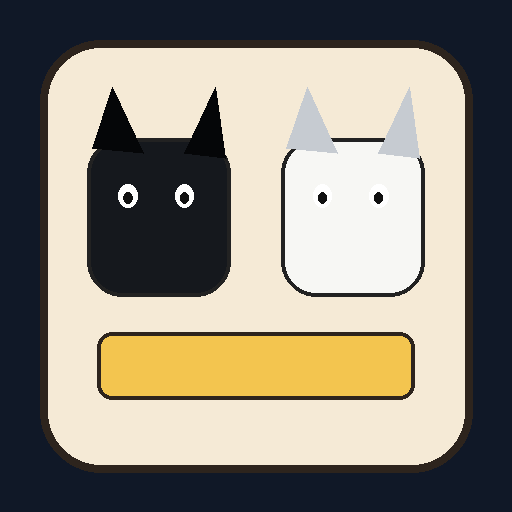
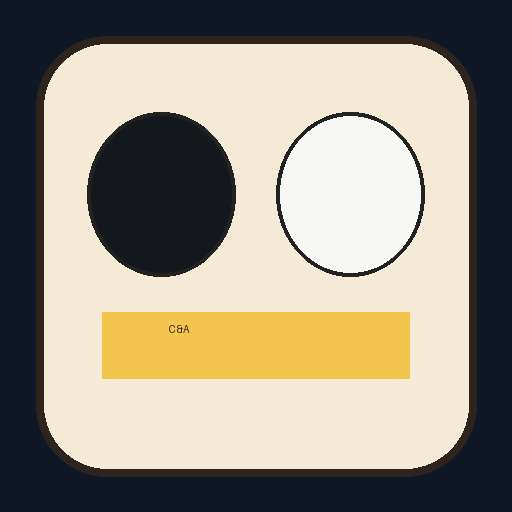
Add files via upload

diff --git a/index.html b/index.html
@@ -8,36 +8,109 @@
 </style></head><body><div id="rotate">Bitte Gerät ins Querformat drehen ↻</div><canvas id="game"></canvas>
 <div id="hud"><span id="lev">Level 1/4</span><span>⭐<b id="sc">0</b></span><span>❤<b id="li">3</b></span><span>🦴<b id="bo">0</b></span><span id="we">☀️</span><button id="prev">◀ Level</button><button id="one">⏮ Level 1</button></div>
 <div id="move" class="pad"><button class="ctrl" data-k="l">◀</button><button class="ctrl" data-k="r">▶</button></div><div id="act" class="pad"><button class="ctrl fire" data-k="f">🦴</button><button class="ctrl jump" data-k="j">⬆</button></div>
-<div id="menu" class="screen show"><div class="card"><h1>CHANEL & ARMANI</h1><h2>Das neue Würfel-Abenteuer</h2><p>Komplett neu aufgebaut: 4 Level, zwei Bonusspiele, dunkle Welten, Wetter, Rangliste und Endgegner.</p><div class="row"><button data-mode="solo">👤 SOLO</button><button data-mode="coop">👥 2 SPIELER</button><button id="rankOpen">🏆 RANG</button></div></div></div>
+<div id="menu" class="screen show"><div class="card"><h1>CHANEL & ARMANI</h1><h2>Das neue Würfel-Abenteuer</h2><p>Deluxe-Grafik: 4 Level, Tiere, Blumen, Sonne, Mond, Sterne, drei Bonusspiele, Feuerwerk und Schatten-Endgegner.</p><div class="row"><button data-mode="solo">👤 SOLO</button><button data-mode="coop">👥 2 SPIELER</button><button id="rankOpen">🏆 RANG</button></div></div></div>
 <div id="select" class="screen"><div class="card"><h2>Figur wählen</h2><h3>Spieler 1</h3><div class="row"><button class="char selected" data-p="1" data-c="chanel"><canvas class="preview" width="100" height="78" data-pr="chanel"></canvas>CHANEL</button><button class="char" data-p="1" data-c="armani"><canvas class="preview" width="100" height="78" data-pr="armani"></canvas>ARMANI</button></div><div id="p2" style="display:none"><h3>Spieler 2</h3><div class="row"><button class="char selected" data-p="2" data-c="armani"><canvas class="preview" width="100" height="78" data-pr="armani"></canvas>ARMANI</button><button class="char" data-p="2" data-c="chanel"><canvas class="preview" width="100" height="78" data-pr="chanel"></canvas>CHANEL</button></div></div><button id="start" class="sticky">SPIEL STARTEN</button></div></div>
 <div id="over" class="screen"><div class="card"><h1 style="color:red">LOSER</h1><button id="retry">NEUER VERSUCH IM LETZTEN LEVEL</button><button id="home">HAUPTMENÜ</button></div></div>
 <div id="win" class="screen"><div class="card"><h1>GESCHAFFT!</h1><p>Der Schattenfürst ist besiegt.</p><button id="winRank">PUNKTZAHL SPEICHERN</button><button id="again">NOCH EINMAL</button></div></div>
 <div id="rank" class="screen"><div class="card"><h1>PUNKT-RANG</h1><div class="row"><input id="name" maxlength="18" placeholder="Name"><button id="save">SPEICHERN</button></div><ol id="list"></ol><button id="back">ZURÜCK</button></div></div>
 <div id="pac" class="screen"><div class="card bonusCard"><h2>BONUS 1 – KNOCHEN-LABYRINTH</h2><div class="bonusLayout"><div><canvas id="pc" class="bonusCanvas" width="800" height="440"></canvas><div>Punkte <b id="ps">0</b>/<b id="pt">0</b></div></div><div><div class="dpad"><button class="up" id="pu">⬆</button><button class="left" id="pl">⬅</button><button class="down" id="pd">⬇</button><button class="right" id="pr">➡</button></div><button id="pSkip">WEITER</button></div></div></div></div>
+
+<div id="dash" class="screen"><div class="card bonusCard">
+<h2>BONUS 2 – TIER-DASH</h2>
+<p>Sammle 20 Früchte, springe über Hindernisse und erreiche das Ziel.</p>
+<div class="bonusLayout">
+<div><canvas id="dashCanvas" class="bonusCanvas" width="900" height="440"></canvas><div>Früchte <b id="dashScore">0</b>/20</div></div>
+<div><div class="dpad"><button class="left" id="dashLeft">⬅</button><button class="right" id="dashRight">➡</button><button class="up" id="dashJump">⬆</button></div><button id="dashSkip">WEITER</button></div>
+</div></div></div>
+
 <div id="shadow" class="screen"><div class="card bonusCard"><h2>BONUS 2 – SCHATTENJAGD</h2><div class="bonusLayout"><div><canvas id="sh" class="bonusCanvas" width="900" height="440"></canvas><div>Licht <b id="ss">0</b>/30</div></div><div><div class="dpad"><button class="up" id="su">⬆</button><button class="left" id="sl">⬅</button><button class="down" id="sd">⬇</button><button class="right" id="sr">➡</button></div><button id="sSkip">WEITER</button></div></div></div></div>
 <script>
-'use strict';const $=x=>document.getElementById(x),cv=$('game'),c=cv.getContext('2d');let W,H,D=1,last=0,time=0,state='menu',run=false,mode='solo',level=1,lastLevel=1,world=2800,weather='sun',score=0,bonesN=0;let choose={1:'chanel',2:'armani'},P=[],plats=[],items=[],en=[],shots=[],esh=[],parts=[],boss=null;const K={l:0,r:0,j:0,f:0},CH={chanel:{sp:300,j:620,d:1},armani:{sp:260,j:575,d:2}},screens=['menu','select','over','win','rank','pac','shadow'];
+'use strict';const $=x=>document.getElementById(x),cv=$('game'),c=cv.getContext('2d');let W,H,D=1,last=0,time=0,state='menu',run=false,mode='solo',level=1,lastLevel=1,world=2800,weather='sun',skyMode='day',score=0,bonesN=0,celebrate=0;let choose={1:'chanel',2:'armani'},P=[],plats=[],items=[],en=[],shots=[],esh=[],parts=[],boss=null;const K={l:0,r:0,j:0,f:0},CH={chanel:{sp:300,j:620,d:1},armani:{sp:260,j:575,d:2}},screens=['menu','select','over','win','rank','pac','dash','shadow'];
 function show(id){screens.forEach(s=>$(s).classList.toggle('show',s===id))}function resize(){D=Math.min(devicePixelRatio||1,2);W=innerWidth;H=innerHeight;cv.width=W*D;cv.height=H*D;cv.style.width=W+'px';cv.style.height=H+'px';c.setTransform(D,0,0,D,0,0)}addEventListener('resize',resize);resize();
 function rr(q,x,y,w,h,r){q.beginPath();q.moveTo(x+r,y);q.lineTo(x+w-r,y);q.quadraticCurveTo(x+w,y,x+w,y+r);q.lineTo(x+w,y+h-r);q.quadraticCurveTo(x+w,y+h,x+w-r,y+h);q.lineTo(x+r,y+h);q.quadraticCurveTo(x,y+h,x,y+h-r);q.lineTo(x,y+r);q.quadraticCurveTo(x,y,x+r,y);q.closePath()}
 function dog(q,x,y,k,s=1,f=1,pose='idle',fr=0){let b=k==='chanel',fur=b?'#15181d':'#f7f7f4',dk=b?'#050608':'#c6cbd1',ac=b?'#f2c94c':'#60a5fa',bob=pose==='run'?Math.sin(fr*1.57)*2:Math.sin(time*3)*1.2,tail=Math.sin(time*7+fr)*5;q.save();q.translate(x,y+bob);if(f<0){q.translate(66*s,0);q.scale(-1,1)}q.fillStyle='#0003';q.beginPath();q.ellipse(32*s,70*s,25*s,6*s,0,0,7);q.fill();q.strokeStyle=fur;q.lineWidth=8*s;q.beginPath();q.moveTo(12*s,38*s);q.quadraticCurveTo((-2-tail)*s,(27-tail)*s,7*s,16*s);q.stroke();q.fillStyle=fur;q.strokeStyle='#222';q.lineWidth=2*s;rr(q,12*s,28*s,42*s,31*s,10*s);q.fill();q.stroke();rr(q,18*s,3*s,38*s,34*s,11*s);q.fill();q.stroke();q.fillStyle=dk;rr(q,17*s,0,11*s,15*s,5*s);q.fill();rr(q,46*s,0,11*s,15*s,5*s);q.fill();rr(q,42*s,18*s,21*s,15*s,7*s);q.fill();q.fillStyle='#111';q.beginPath();q.arc(56*s,23*s,4*s,0,7);q.fill();q.fillStyle='#fff';q.beginPath();q.ellipse(29*s,15*s,4*s,6*s,0,0,7);q.ellipse(46*s,15*s,4*s,6*s,0,0,7);q.fill();q.fillStyle='#111';q.beginPath();q.arc(30*s,17*s,2*s,0,7);q.arc(47*s,17*s,2*s,0,7);q.fill();q.fillStyle=ac;q.fillRect(16*s,43*s,40*s,8*s);q.fillStyle=fur;rr(q,18*s,(54+(fr%2?5:-3))*s,11*s,18*s,4*s);q.fill();rr(q,42*s,(54+(fr%2?-3:5))*s,11*s,18*s,4*s);q.fill();q.restore()}
 document.querySelectorAll('[data-pr]').forEach(v=>{let q=v.getContext('2d');q.fillStyle='#9bdcff';q.fillRect(0,0,100,78);q.fillStyle='#61b54e';q.fillRect(0,58,100,20);dog(q,18,3,v.dataset.pr,.9)});
 function mkP(i,k,x){let a=CH[k];return{i,k,x,y:20,w:38,h:42,big:0,vx:0,vy:0,g:0,jumps:0,lock:0,face:1,lives:3,inv:0,cd:0,sp:a.sp,j:a.j,d:a.d,fr:0,ft:0,pose:'idle',done:0}}
 function hit(a,b){return a.x<b.x+b.w&&a.x+a.w>b.x&&a.y<b.y+b.h&&a.y+a.h>b.y}function ground(x,w){plats.push({x,y:H-100,w,h:120})}function plat(x,y,w){plats.push({x,y,w,h:28})}function enemy(x,y,t){en.push({x,y,w:48,h:44,t,hp:t==='shadow'?4:3,vx:t==='bat'?90:55,a:1,p:Math.random()*6})}
-function build(n){level=n;lastLevel=n;weather=['sun','rain','snow'][Math.floor(Math.random()*3)];plats=[];items=[];en=[];shots=[];esh=[];parts=[];boss=null;world=[0,2800,3100,3400,3800][n];let gaps=n===1?[[760,170],[1720,190]]:n===2?[[520,190],[1420,220],[2480,180]]:n===3?[[650,180],[1580,210],[2660,200]]:[[900,190],[1980,220],[3050,180]],cur=0;gaps.forEach(g=>{if(g[0]>cur)ground(cur,g[0]-cur);cur=g[0]+g[1]});if(cur<world)ground(cur,world-cur);let S=n===1?[[300,H-230,220],[650,H-350,240],[1080,H-260,230],[1460,H-400,250],[2080,H-300,260]]:n===2?[[260,H-260,200],[610,H-410,220],[1010,H-300,230],[1430,H-450,250],[1880,H-330,220],[2290,H-440,260]]:n===3?[[300,H-240,220],[710,H-380,240],[1120,H-290,220],[1540,H-440,250],[1990,H-320,230],[2440,H-410,260]]:[[350,H-250,230],[800,H-400,260],[1260,H-310,230],[1710,H-450,280],[2250,H-340,240],[2740,H-430,260],[3240,H-300,240]];S.forEach(v=>plat(...v));for(let i=0;i<10+n;i++)items.push({t:'bone',x:170+i*(world-340)/(9+n),y:H-(i%2?360:160),a:1});[360,980,1760,world-420].forEach((x,i)=>items.push({t:'heart',x,y:H-(i%2?250:150),a:1}));items.push({t:'power',x:world*.58,y:H-210,a:1});if(n===1){enemy(900,H-144,'cat');enemy(1320,H-144,'mouse');enemy(2200,H-250,'bat')}if(n===2){enemy(760,H-144,'cat');enemy(1200,H-144,'mouse');enemy(1800,H-250,'bat');enemy(2600,H-144,'cat')}if(n===3){enemy(800,H-144,'shadow');enemy(1350,H-260,'bat');enemy(2050,H-144,'shadow');enemy(2870,H-260,'bat')}if(n===4){enemy(900,H-144,'shadow');enemy(1480,H-260,'bat');enemy(2350,H-144,'shadow');boss={x:3420,y:H-190,w:80,h:90,hp:9,max:9,a:1,cd:0,phase:1}}P.forEach((p,i)=>{p.x=70+i*70;p.y=20;p.vx=p.vy=0;p.done=0;p.big=0;p.w=38;p.h=42});$('lev').textContent='Level '+n+'/4';$('we').textContent=weather==='sun'?'☀️':weather==='rain'?'🌧️':'❄️';hud()}
+function build(n){level=n;celebrate=0;lastLevel=n;weather=['sun','rain','snow'][Math.floor(Math.random()*3)];skyMode=Math.random()<.42?'night':'day';plats=[];items=[];en=[];shots=[];esh=[];parts=[];boss=null;world=[0,2800,3100,3400,3800][n];let gaps=n===1?[[760,170],[1720,190]]:n===2?[[520,190],[1420,220],[2480,180]]:n===3?[[650,180],[1580,210],[2660,200]]:[[900,190],[1980,220],[3050,180]],cur=0;gaps.forEach(g=>{if(g[0]>cur)ground(cur,g[0]-cur);cur=g[0]+g[1]});if(cur<world)ground(cur,world-cur);let S=n===1?[[300,H-230,220],[650,H-350,240],[1080,H-260,230],[1460,H-400,250],[2080,H-300,260]]:n===2?[[260,H-260,200],[610,H-410,220],[1010,H-300,230],[1430,H-450,250],[1880,H-330,220],[2290,H-440,260]]:n===3?[[300,H-240,220],[710,H-380,240],[1120,H-290,220],[1540,H-440,250],[1990,H-320,230],[2440,H-410,260]]:[[350,H-250,230],[800,H-400,260],[1260,H-310,230],[1710,H-450,280],[2250,H-340,240],[2740,H-430,260],[3240,H-300,240]];S.forEach(v=>plat(...v));for(let i=0;i<10+n;i++)items.push({t:'bone',x:170+i*(world-340)/(9+n),y:H-(i%2?360:160),a:1});[360,980,1760,world-420].forEach((x,i)=>items.push({t:'heart',x,y:H-(i%2?250:150),a:1}));items.push({t:'power',x:world*.58,y:H-210,a:1});if(n===1){enemy(900,H-144,'cat');enemy(1320,H-144,'mouse');enemy(2200,H-250,'bat')}if(n===2){enemy(760,H-144,'cat');enemy(1200,H-144,'mouse');enemy(1800,H-250,'bat');enemy(2600,H-144,'cat')}if(n===3){enemy(800,H-144,'shadow');enemy(1350,H-260,'bat');enemy(2050,H-144,'shadow');enemy(2870,H-260,'bat')}if(n===4){enemy(900,H-144,'shadow');enemy(1480,H-260,'bat');enemy(2350,H-144,'shadow');boss={x:3420,y:H-190,w:80,h:90,hp:9,max:9,a:1,cd:0,phase:1}}P.forEach((p,i)=>{p.x=70+i*70;p.y=20;p.vx=p.vy=0;p.done=0;p.big=0;p.w=38;p.h=42});$('lev').textContent='Level '+n+'/4';$('we').textContent=weather==='sun'?'☀️':weather==='rain'?'🌧️':'❄️';hud()}
 function start(){show('');$('hud').style.display='flex';$('move').style.display='flex';$('act').style.display='flex';score=0;bonesN=0;P=[mkP(1,choose[1],70)];if(mode==='coop')P.push(mkP(2,choose[2],140));build(1);state='game';run=1;last=performance.now()}
 function hud(){$('sc').textContent=score;$('bo').textContent=bonesN;$('li').textContent=Math.max(...P.map(p=>p.lives))}
 function burst(x,y,col,n=10){for(let i=0;i<n;i++){let a=Math.random()*7,s=50+Math.random()*150;parts.push({x,y,vx:Math.cos(a)*s,vy:Math.sin(a)*s-70,life:.8,col,z:2+Math.random()*4})}}
 function hurt(p){if(p.inv>0)return;if(p.big){p.big=0;p.w=38;p.h=42;p.inv=1;return}p.lives--;p.inv=1.2;if(p.lives<=0){run=0;state='over';show('over');$('hud').style.display=$('move').style.display=$('act').style.display='none'}else{p.x=Math.max(30,p.x-180);p.y=20;p.vx=p.vy=0}}
 function updP(p,dt){let L=p.i===1&&K.l,R=p.i===1&&K.r,J=p.i===1&&K.j,F=p.i===1&&K.f;p.vx=((R?1:0)-(L?1:0))*p.sp;if(p.vx)p.face=Math.sign(p.vx);if(J&&!p.lock&&p.jumps<2){p.vy=-(p.jumps?p.j*1.08:p.j);p.jumps++;p.lock=1}if(!J)p.lock=0;p.vy+=1500*dt;let oy=p.y;p.x+=p.vx*dt;p.y+=p.vy*dt;p.g=0;p.x=Math.max(0,Math.min(world-p.w,p.x));plats.forEach(r=>{if(p.x+p.w>r.x&&p.x<r.x+r.w&&oy+p.h<=r.y+8&&p.y+p.h>=r.y&&p.vy>=0){p.y=r.y-p.h;p.vy=0;p.g=1;p.jumps=0}});if(p.y>H+100){hurt(p);p.x=Math.max(30,p.x-250);p.y=20}p.inv=Math.max(0,p.inv-dt);p.cd-=dt;if(F&&p.cd<=0){shots.push({x:p.x+(p.face>0?p.w:0),y:p.y+p.h*.45,w:18,h:10,vx:p.face*680,d:p.d,dead:0});p.cd=.25}p.pose=!p.g?'jump':Math.abs(p.vx)>10?'run':'idle';p.ft+=dt;if(p.ft>.1){p.fr=(p.fr+1)%4;p.ft=0}items.forEach(i=>{if(i.a&&Math.hypot(p.x+p.w/2-i.x,p.y+p.h/2-i.y)<35){i.a=0;if(i.t==='bone'){score+=10;bonesN++}if(i.t==='heart'){p.lives++;score+=25}if(i.t==='power'){p.big=1;p.w=64;p.h=72;p.y-=30;score+=40}}});let goal=world-110;if(level<4&&p.x>goal)p.done=1;if(level===4&&boss&&!boss.a&&p.x>goal)p.done=1}
-function update(dt){time+=dt;P.forEach(p=>updP(p,dt));shots.forEach(s=>s.x+=s.vx*dt);esh.forEach(s=>{s.x+=s.vx*dt;s.y+=s.vy*dt});en.forEach(e=>{if(!e.a)return;if(e.t==='bat'){e.x+=e.vx*dt;e.y+=Math.sin(time*3+e.p)*35*dt}else e.x+=e.vx*dt;if(e.x<80||e.x>world-80)e.vx*=-1;shots.forEach(s=>{if(!s.dead&&hit(s,e)){e.hp-=s.d;s.dead=1;if(e.hp<=0){e.a=0;score+=50}}});P.forEach(p=>{if(hit(p,e))hurt(p)})});if(boss&&boss.a){boss.cd-=dt;if(boss.hp<=6)boss.phase=2;if(boss.hp<=3)boss.phase=3;if(boss.cd<=0){let p=P[0],dx=p.x-boss.x,dy=p.y-boss.y,m=Math.max(1,Math.hypot(dx,dy));for(let i=0;i<boss.phase;i++){let a=Math.atan2(dy,dx)+(i-(boss.phase-1)/2)*.18;esh.push({x:boss.x,y:boss.y+35,w:16,h:16,vx:Math.cos(a)*220,vy:Math.sin(a)*220,dead:0})}boss.cd=boss.phase===1?1.5:boss.phase===2?1.1:.8}shots.forEach(s=>{if(!s.dead&&hit(s,boss)){boss.hp-=s.d;s.dead=1;if(boss.hp<=0){boss.a=0;score+=500}}});P.forEach(p=>{if(hit(p,boss))hurt(p)})}esh.forEach(s=>P.forEach(p=>{if(!s.dead&&hit(s,p)){s.dead=1;hurt(p)}}));shots=shots.filter(s=>!s.dead&&s.x<world+100);esh=esh.filter(s=>!s.dead&&s.y<H+100);parts.forEach(p=>{p.x+=p.vx*dt;p.y+=p.vy*dt;p.vy+=380*dt;p.life-=dt});parts=parts.filter(p=>p.life>0);if(P.every(p=>p.done)){if(level===1)startPac();else if(level===3)startShadow();else if(level<4)build(level+1);else{run=0;state='win';show('win');$('hud').style.display=$('move').style.display=$('act').style.display='none'}}hud()}
-function bg(ox){let dark=level>=3,g=c.createLinearGradient(0,0,0,H);if(dark){g.addColorStop(0,'#10162c');g.addColorStop(.55,'#3b224f');g.addColorStop(1,'#1a2a1d')}else{g.addColorStop(0,'#4a9fe8');g.addColorStop(.55,'#dff4ff');g.addColorStop(1,'#4f8b3a')}c.fillStyle=g;c.fillRect(0,0,W,H);for(let i=-1;i<14;i++){let x=i*210-(ox*.22%210),b=H-105;c.fillStyle=dark?'#281f31':'#6f4725';c.fillRect(x,b-80,28,80);c.fillStyle=dark?'#30223e':'#3f9f42';c.beginPath();c.arc(x+14,b-92,38,0,7);c.fill()}if(weather==='rain'){c.strokeStyle='#cde8ffaa';for(let i=0;i<70;i++){let x=(i*73+time*400)%W,y=(i*41+time*620)%H;c.beginPath();c.moveTo(x,y);c.lineTo(x-8,y+20);c.stroke()}}if(weather==='snow'){c.fillStyle='#fff';for(let i=0;i<50;i++){let x=(i*97+Math.sin(time+i)*25)%W,y=(i*57+time*70)%H;c.beginPath();c.arc(x,y,2+i%3,0,7);c.fill()}}}
-function draw(){c.clearRect(0,0,W,H);let ox=Math.max(0,Math.min(world-W,(P[0]||{x:0}).x-W*.38));bg(ox);plats.forEach(r=>{c.fillStyle=level>=3?'#403244':'#6b4424';c.fillRect(r.x-ox,r.y,r.w,r.h);c.fillStyle=weather==='snow'?'#eef6ff':level>=3?'#4f375b':'#54b83f';c.fillRect(r.x-ox,r.y,r.w,12)});items.forEach(i=>{if(!i.a)return;let x=i.x-ox,y=i.y;if(i.t==='bone'){c.fillStyle='#fff2c8';c.fillRect(x-12,y-4,24,8)}if(i.t==='heart'){c.fillStyle='#e11d48';c.beginPath();c.arc(x-6,y,9,0,7);c.arc(x+6,y,9,0,7);c.lineTo(x,y+18);c.fill()}if(i.t==='power'){let g=c.createRadialGradient(x,y,2,x,y,22);g.addColorStop(0,'#60a5fa');g.addColorStop(.5,'#111827');g.addColorStop(1,'#2563eb');c.fillStyle=g;c.beginPath();c.arc(x,y,22,0,7);c.fill()}});en.forEach(e=>{if(!e.a)return;let x=e.x-ox,col=e.t==='cat'?'#d97706':e.t==='mouse'?'#9ca3af':e.t==='bat'?'#5b21b6':'#050507';c.fillStyle=col;rr(c,x,e.y,e.w,e.h,10);c.fill();c.fillStyle=e.t==='shadow'?'#ef4444':'#fff';c.beginPath();c.arc(x+15,e.y+15,5,0,7);c.arc(x+34,e.y+15,5,0,7);c.fill()});if(boss&&boss.a){let x=boss.x-ox,y=boss.y;c.fillStyle='#1b1027';c.strokeStyle='#8b5cf6';c.lineWidth=3;rr(c,x,y,boss.w,boss.h,16);c.fill();c.stroke();c.fillStyle='#ef4444';c.beginPath();c.arc(x+25,y+35,7,0,7);c.arc(x+55,y+35,7,0,7);c.fill();c.fillStyle='#22c55e';c.fillRect(x,y-12,boss.w*(boss.hp/boss.max),8)}shots.forEach(s=>{c.fillStyle='#fde047';c.fillRect(s.x-ox,s.y,s.w,s.h)});esh.forEach(s=>{c.fillStyle='#c084fc';c.beginPath();c.arc(s.x-ox,s.y,8,0,7);c.fill()});P.forEach(p=>{c.globalAlpha=p.inv>0&&Math.floor(p.inv*12)%2===0?.45:1;dog(c,p.x-ox,p.y,p.k,p.big?1:.58,p.face,p.pose,p.fr);c.globalAlpha=1});let gx=world-80-ox;c.fillStyle=level===4&&boss&&boss.a?'#777':'#22c55e';c.fillRect(gx,H-220,8,120)}
+function update(dt){time+=dt;P.forEach(p=>updP(p,dt));shots.forEach(s=>s.x+=s.vx*dt);esh.forEach(s=>{s.x+=s.vx*dt;s.y+=s.vy*dt});en.forEach(e=>{if(!e.a)return;if(e.t==='bat'){e.x+=e.vx*dt;e.y+=Math.sin(time*3+e.p)*35*dt}else e.x+=e.vx*dt;if(e.x<80||e.x>world-80)e.vx*=-1;shots.forEach(s=>{if(!s.dead&&hit(s,e)){e.hp-=s.d;s.dead=1;if(e.hp<=0){e.a=0;score+=50}}});P.forEach(p=>{if(hit(p,e))hurt(p)})});if(boss&&boss.a){boss.cd-=dt;if(boss.hp<=6)boss.phase=2;if(boss.hp<=3)boss.phase=3;if(boss.cd<=0){let p=P[0],dx=p.x-boss.x,dy=p.y-boss.y,m=Math.max(1,Math.hypot(dx,dy));for(let i=0;i<boss.phase;i++){let a=Math.atan2(dy,dx)+(i-(boss.phase-1)/2)*.18;esh.push({x:boss.x,y:boss.y+35,w:16,h:16,vx:Math.cos(a)*220,vy:Math.sin(a)*220,dead:0})}boss.cd=boss.phase===1?1.5:boss.phase===2?1.1:.8}shots.forEach(s=>{if(!s.dead&&hit(s,boss)){boss.hp-=s.d;s.dead=1;if(boss.hp<=0){boss.a=0;score+=500}}});P.forEach(p=>{if(hit(p,boss))hurt(p)})}esh.forEach(s=>P.forEach(p=>{if(!s.dead&&hit(s,p)){s.dead=1;hurt(p)}}));shots=shots.filter(s=>!s.dead&&s.x<world+100);esh=esh.filter(s=>!s.dead&&s.y<H+100);parts.forEach(p=>{p.x+=p.vx*dt;p.y+=p.vy*dt;p.vy+=380*dt;p.life-=dt});parts=parts.filter(p=>p.life>0);if(P.every(p=>p.done)){if(level===1)startPac();else if(level===2)startDash();else if(level===3)startShadow();else if(level<4)build(level+1);else if(celebrate<=0){celebrate=3.2;toast('SIEG! FEUERWERK!')}}fireworksTick(dt);hud()}
+
+function flower(x,y,col='#ff5ea8',s=1){
+  c.strokeStyle='#2f7d32';c.lineWidth=2*s;c.beginPath();c.moveTo(x,y);c.lineTo(x,y-16*s);c.stroke();
+  c.fillStyle=col;
+  for(let i=0;i<5;i++){let a=i*Math.PI*2/5;c.beginPath();c.arc(x+Math.cos(a)*4*s,y-16*s+Math.sin(a)*4*s,3*s,0,7);c.fill()}
+  c.fillStyle='#ffd54f';c.beginPath();c.arc(x,y-16*s,2.4*s,0,7);c.fill()
+}
+function decoAnimal(x,y,type,flip=1){
+  c.save();c.translate(x,y);if(flip<0)c.scale(-1,1);
+  if(type==='rabbit'){
+    c.fillStyle='#d7d5d2';c.beginPath();c.ellipse(0,0,13,9,0,0,7);c.fill();
+    c.beginPath();c.ellipse(10,-7,7,7,0,0,7);c.fill();
+    c.fillRect(8,-24,4,15);c.fillRect(14,-24,4,15);
+    c.fillStyle='#111';c.beginPath();c.arc(13,-8,1.5,0,7);c.fill()
+  }else if(type==='bird'){
+    c.strokeStyle=skyMode==='night'?'#b9c5e8':'#30445e';c.lineWidth=2;c.beginPath();c.arc(-6,0,8,3.4,6);c.arc(6,0,8,3.4,6);c.stroke()
+  }else{
+    c.fillStyle='#a66b3f';c.beginPath();c.ellipse(0,0,18,10,0,0,7);c.fill();
+    c.beginPath();c.arc(17,-7,8,0,7);c.fill();
+    c.strokeStyle='#a66b3f';c.lineWidth=3;c.beginPath();c.moveTo(-10,6);c.lineTo(-13,17);c.moveTo(8,6);c.lineTo(10,17);c.stroke()
+  }
+  c.restore()
+}
+function drawCelestial(){
+  if(skyMode==='night'){
+    c.fillStyle='#f5f3ce';c.beginPath();c.arc(W*.78,80,36,0,7);c.fill();
+    c.fillStyle='#18213d';c.beginPath();c.arc(W*.795,70,34,0,7);c.fill();
+    c.fillStyle='#fff';
+    for(let i=0;i<55;i++){let x=(i*97)%W,y=18+(i*53)%(H*.5);let tw=1+Math.sin(time*3+i)*.6;c.globalAlpha=.5+tw*.3;c.beginPath();c.arc(x,y,1+(i%3)*.45,0,7);c.fill()}c.globalAlpha=1
+  }else{
+    let g=c.createRadialGradient(W*.78,80,4,W*.78,80,90);g.addColorStop(0,'#fffbd7');g.addColorStop(.35,'rgba(255,223,130,.65)');g.addColorStop(1,'rgba(255,223,130,0)');
+    c.fillStyle=g;c.beginPath();c.arc(W*.78,80,90,0,7);c.fill()
+  }
+}
+function fireworksTick(dt){
+  if(celebrate<=0)return;
+  celebrate-=dt;
+  if(Math.random()<dt*8)burst((P[0]?.x||0)+Math.random()*W*.7,80+Math.random()*H*.42,['#ff3344','#ffd633','#3bbcff','#9b5cff','#45e06f'][Math.floor(Math.random()*5)],26);
+  if(celebrate<=0){run=0;state='win';show('win');$('hud').style.display=$('move').style.display=$('act').style.display='none'}
+}
+function bg(ox){
+  let dark=level>=3||skyMode==='night',g=c.createLinearGradient(0,0,0,H);
+  if(skyMode==='night'){g.addColorStop(0,'#081126');g.addColorStop(.55,'#283458');g.addColorStop(1,'#1a2a1d')}
+  else if(level>=3){g.addColorStop(0,'#10162c');g.addColorStop(.55,'#3b224f');g.addColorStop(1,'#1a2a1d')}
+  else{g.addColorStop(0,'#4a9fe8');g.addColorStop(.55,'#dff4ff');g.addColorStop(1,'#4f8b3a')}
+  c.fillStyle=g;c.fillRect(0,0,W,H);drawCelestial();
+  c.fillStyle=dark?'rgba(65,50,90,.28)':'rgba(70,110,120,.22)';
+  for(let i=-1;i<9;i++){let x=i*320-(ox*.08%320);c.beginPath();c.moveTo(x,H*.7);c.lineTo(x+115,H*.42-(i%3)*20);c.lineTo(x+230,H*.7);c.closePath();c.fill()}
+  for(let i=-1;i<16;i++){let x=i*190-(ox*.22%190),b=H-105;c.fillStyle=dark?'#281f31':'#6f4725';c.fillRect(x,b-82,30,82);c.fillStyle=dark?'#30223e':'#3f9f42';c.beginPath();c.arc(x+15,b-96,40,0,7);c.fill();c.beginPath();c.arc(x-8,b-72,29,0,7);c.fill();c.beginPath();c.arc(x+40,b-72,29,0,7);c.fill()}
+  for(let i=-1;i<55;i++){let x=i*52-(ox*.58%52);flower(x,H-102-(i%2)*2,['#ff5ea8','#ffd84d','#7c5cff','#ff784d','#fff'][Math.abs(i)%5],.8+(Math.abs(i)%3)*.12)}
+  for(let i=0;i<8;i++)decoAnimal(((i*310-ox*.33)% (W+240))-80,H-122-(i%2)*12,i%3===0?'rabbit':i%3===1?'bird':'deer',i%2?1:-1);
+  if(weather==='rain'){c.strokeStyle='#cde8ffaa';for(let i=0;i<65;i++){let x=(i*73+time*400)%W,y=(i*41+time*620)%H;c.beginPath();c.moveTo(x,y);c.lineTo(x-8,y+20);c.stroke()}}
+  if(weather==='snow'){c.fillStyle='#fff';for(let i=0;i<48;i++){let x=(i*97+Math.sin(time+i)*25)%W,y=(i*57+time*70)%H;c.beginPath();c.arc(x,y,2+i%3,0,7);c.fill()}}
+}
+function draw(){c.clearRect(0,0,W,H);let ox=Math.max(0,Math.min(world-W,(P[0]||{x:0}).x-W*.38));bg(ox);plats.forEach(r=>{c.fillStyle=level>=3?'#403244':'#6b4424';c.fillRect(r.x-ox,r.y,r.w,r.h);c.fillStyle=weather==='snow'?'#eef6ff':level>=3?'#4f375b':'#54b83f';c.fillRect(r.x-ox,r.y,r.w,12)});items.forEach(i=>{if(!i.a)return;let x=i.x-ox,y=i.y;if(i.t==='bone'){c.fillStyle='#fff2c8';c.fillRect(x-12,y-4,24,8)}if(i.t==='heart'){c.fillStyle='#e11d48';c.beginPath();c.arc(x-6,y,9,0,7);c.arc(x+6,y,9,0,7);c.lineTo(x,y+18);c.fill()}if(i.t==='power'){let g=c.createRadialGradient(x,y,2,x,y,22);g.addColorStop(0,'#60a5fa');g.addColorStop(.5,'#111827');g.addColorStop(1,'#2563eb');c.fillStyle=g;c.beginPath();c.arc(x,y,22,0,7);c.fill()}});en.forEach(e=>{if(!e.a)return;let x=e.x-ox,col=e.t==='cat'?'#d97706':e.t==='mouse'?'#9ca3af':e.t==='bat'?'#5b21b6':'#050507';c.fillStyle=col;rr(c,x,e.y,e.w,e.h,10);c.fill();c.fillStyle=e.t==='shadow'?'#ef4444':'#fff';c.beginPath();c.arc(x+15,e.y+15,5,0,7);c.arc(x+34,e.y+15,5,0,7);c.fill()});if(boss&&boss.a){let x=boss.x-ox,y=boss.y,gl=c.createRadialGradient(x+40,y+42,5,x+40,y+42,75);gl.addColorStop(0,'rgba(168,85,247,.8)');gl.addColorStop(1,'rgba(168,85,247,0)');c.fillStyle=gl;c.beginPath();c.arc(x+40,y+42,75,0,7);c.fill();c.fillStyle='#1b1027';c.strokeStyle='#8b5cf6';c.lineWidth=3;rr(c,x,y,boss.w,boss.h,16);c.fill();c.stroke();c.beginPath();c.moveTo(x+8,y+18);c.lineTo(x-24,y-2);c.lineTo(x-5,y+40);c.fill();c.beginPath();c.moveTo(x+72,y+18);c.lineTo(x+104,y-2);c.lineTo(x+85,y+40);c.fill();c.fillStyle='#ef4444';c.beginPath();c.arc(x+25,y+35,7,0,7);c.arc(x+55,y+35,7,0,7);c.fill();c.strokeStyle='#d8b4fe';c.beginPath();c.moveTo(x+17,y+58);c.quadraticCurveTo(x+40,y+74,x+63,y+58);c.stroke();c.fillStyle='#111827';c.fillRect(x,y-14,boss.w,9);c.fillStyle='#22c55e';c.fillRect(x,y-14,boss.w*(boss.hp/boss.max),9)}shots.forEach(s=>{c.fillStyle='#fde047';c.fillRect(s.x-ox,s.y,s.w,s.h)});esh.forEach(s=>{c.fillStyle='#c084fc';c.beginPath();c.arc(s.x-ox,s.y,8,0,7);c.fill()});P.forEach(p=>{c.globalAlpha=p.inv>0&&Math.floor(p.inv*12)%2===0?.45:1;dog(c,p.x-ox,p.y,p.k,p.big?1:.58,p.face,p.pose,p.fr);c.globalAlpha=1});let gx=world-80-ox;c.fillStyle=level===4&&boss&&boss.a?'#777':'#22c55e';c.fillRect(gx,H-220,8,120)}
 function loop(t){let dt=Math.min((t-last)/1000,.025);last=t;if(run&&state==='game')update(dt);if(state==='game')draw();requestAnimationFrame(loop)}requestAnimationFrame(loop);
 document.querySelectorAll('[data-mode]').forEach(b=>b.onclick=()=>{mode=b.dataset.mode;$('p2').style.display=mode==='coop'?'block':'none';show('select')});document.querySelectorAll('.char').forEach(b=>b.onclick=()=>{let p=b.dataset.p;choose[p]=b.dataset.c;document.querySelectorAll('.char[data-p="'+p+'"]').forEach(x=>x.classList.remove('selected'));b.classList.add('selected')});$('start').onclick=start;$('retry').onclick=()=>{show('');$('hud').style.display='flex';$('move').style.display='flex';$('act').style.display='flex';P=[mkP(1,choose[1],70)];if(mode==='coop')P.push(mkP(2,choose[2],140));build(lastLevel);state='game';run=1;last=performance.now()};$('home').onclick=()=>{run=0;state='menu';show('menu')};$('again').onclick=()=>show('menu');$('prev').onclick=()=>{if(state==='game'&&level>1)build(level-1)};$('one').onclick=()=>{if(state==='game'&&level>1)build(1)};
 document.querySelectorAll('[data-k]').forEach(b=>{let k=b.dataset.k,d=e=>{e.preventDefault();K[k]=1},u=e=>{e.preventDefault();K[k]=0};b.addEventListener('pointerdown',d);b.addEventListener('pointerup',u);b.addEventListener('pointercancel',u);b.addEventListener('pointerleave',u)});
 function ranks(){try{return JSON.parse(localStorage.getItem('caRanks')||'[]')}catch(e){return[]}}function render(){let l=$('list');l.innerHTML='';let r=ranks();if(!r.length)l.innerHTML='<li>Noch keine Einträge</li>';r.slice(0,10).forEach((x,i)=>{let q=document.createElement('li');q.textContent=(i+1)+'. '+x.name+' – '+x.score;l.appendChild(q)})}function save(){let n=($('name').value||'Spieler').trim(),r=ranks();r.push({name:n,score});r.sort((a,b)=>b.score-a.score);try{localStorage.setItem('caRanks',JSON.stringify(r.slice(0,10)))}catch(e){}render()}$('rankOpen').onclick=()=>{render();show('rank')};$('back').onclick=()=>show('menu');$('save').onclick=save;$('winRank').onclick=()=>{render();show('rank')};
 /* PAC */
 const pc=$('pc'),px=pc.getContext('2d'),T=40;let map=[],pp={x:1,y:1,dx:0,dy:0},gh=[],got=0,total=0,ptimer=null;function startPac(){run=0;state='pac';document.body.classList.add('bonus');$('hud').style.display=$('move').style.display=$('act').style.display='none';show('pac');let raw=["####################","#..................#","#.###.####.###.###.#","#.#...#....#...#...#","#.#.###.##.#.###.#.#","#...#......#.....#.#","###.#.#######.###..#","#...#.....#........#","#.#####.#.#.######.#","#.......#..........#","####################"];map=raw.map(r=>r.split(''));pp={x:1,y:1,dx:0,dy:0};gh=[{x:18,y:9},{x:10,y:5}];got=0;total=0;map.forEach(r=>r.forEach(v=>{if(v==='.')total++}));$('ps').textContent=0;$('pt').textContent=total;if(ptimer)clearInterval(ptimer);ptimer=setInterval(pstep,170);pdraw()}function can(x,y){return map[y]&&map[y][x]&&map[y][x]!=='#'}function pdir(x,y){pp.dx=x;pp.dy=y;pstep()}function pstep(){let x=pp.x+pp.dx,y=pp.y+pp.dy;if(can(x,y)){pp.x=x;pp.y=y}if(map[pp.y][pp.x]==='.'){map[pp.y][pp.x]=' ';got++;score+=2;$('ps').textContent=got}gh.forEach(g=>{let o=[[1,0],[-1,0],[0,1],[0,-1]].filter(d=>can(g.x+d[0],g.y+d[1]));let d=o[Math.floor(Math.random()*o.length)];if(d){g.x+=d[0];g.y+=d[1]}if(g.x===pp.x&&g.y===pp.y){pp.x=1;pp.y=1}});pdraw();if(got>=total){clearInterval(ptimer);score+=100;leavePac()}}function pdraw(){px.fillStyle='#030711';px.fillRect(0,0,800,440);for(let y=0;y<map.length;y++)for(let x=0;x<map[y].length;x++){let v=map[y][x];if(v==='#'){px.fillStyle='#1d4ed8';px.fillRect(x*T+2,y*T+2,T-4,T-4)}else if(v==='.'){px.fillStyle='#fde68a';px.beginPath();px.arc(x*T+20,y*T+20,4,0,7);px.fill()}}px.fillStyle='#facc15';px.beginPath();px.arc(pp.x*T+20,pp.y*T+20,15,0,7);px.fill();gh.forEach(g=>{px.fillStyle='#ef4444';px.beginPath();px.arc(g.x*T+20,g.y*T+20,15,0,7);px.fill()})}function leavePac(){document.body.classList.remove('bonus');show('');$('hud').style.display='flex';$('move').style.display='flex';$('act').style.display='flex';build(2);state='game';run=1;last=performance.now()}$('pu').onclick=()=>pdir(0,-1);$('pd').onclick=()=>pdir(0,1);$('pl').onclick=()=>pdir(-1,0);$('pr').onclick=()=>pdir(1,0);$('pSkip').onclick=()=>{if(ptimer)clearInterval(ptimer);leavePac()};
+
+/* TIER-DASH BONUS */
+const dash=$('dashCanvas'),dc=dash.getContext('2d');let runner={x:100,y:330,vx:0,vy:0,g:1},dashWorld=2600,dashCam=0,fruit=[],rocks=[],dashGot=0,dashTimer=null,dashKeys={l:0,r:0,j:0};
+function startDash(){run=0;state='dash';document.body.classList.add('bonus');$('hud').style.display=$('move').style.display=$('act').style.display='none';show('dash');runner={x:100,y:330,vx:0,vy:0,g:1};dashCam=0;dashGot=0;$('dashScore').textContent=0;fruit=[];rocks=[];for(let i=0;i<20;i++)fruit.push({x:180+i*115,y:250-(i%3)*55,a:1});for(let i=0;i<12;i++)rocks.push({x:360+i*185,y:350,w:34+(i%3)*8,h:30+(i%2)*15});if(dashTimer)clearInterval(dashTimer);dashTimer=setInterval(dashStep,16)}
+function dashStep(){runner.vx=((dashKeys.r?1:0)-(dashKeys.l?1:0))*320;if(dashKeys.j&&runner.g){runner.vy=-590;runner.g=0;dashKeys.j=0}runner.vy+=1450*.016;runner.x+=runner.vx*.016;runner.y+=runner.vy*.016;if(runner.y>=330){runner.y=330;runner.vy=0;runner.g=1}runner.x=Math.max(30,Math.min(dashWorld-50,runner.x));rocks.forEach(r=>{if(runner.x+38>r.x&&runner.x<r.x+r.w&&runner.y+42>r.y&&runner.y<r.y+r.h){runner.x=Math.max(40,r.x-45)}});fruit.forEach(f=>{if(f.a&&Math.hypot(runner.x-f.x,runner.y-f.y)<38){f.a=0;dashGot++;score+=5;$('dashScore').textContent=dashGot}});dashCam=Math.max(0,Math.min(dashWorld-900,runner.x-230));drawDash();if(dashGot>=20||runner.x>dashWorld-90){clearInterval(dashTimer);score+=120;leaveDash()}}
+function drawDash(){let g=dc.createLinearGradient(0,0,0,440);g.addColorStop(0,'#7bc7ff');g.addColorStop(.65,'#e9f7ff');g.addColorStop(.66,'#6cbf4c');g.addColorStop(1,'#3f7a32');dc.fillStyle=g;dc.fillRect(0,0,900,440);dc.fillStyle='#7b5532';dc.fillRect(0,372,900,68);dc.fillStyle='#58ad43';dc.fillRect(0,360,900,16);for(let i=0;i<10;i++){let x=i*180-(dashCam*.25%180);dc.fillStyle='#6f4725';dc.fillRect(x,250,24,110);dc.fillStyle='#3f9f42';dc.beginPath();dc.arc(x+12,240,42,0,7);dc.fill()}fruit.forEach(f=>{if(!f.a)return;let x=f.x-dashCam;dc.fillStyle='#ff4d4d';dc.beginPath();dc.arc(x,f.y,10,0,7);dc.fill();dc.fillStyle='#4caf50';dc.fillRect(x-2,f.y-16,4,7)});rocks.forEach(r=>{dc.fillStyle='#5b6470';rr(dc,r.x-dashCam,r.y,r.w,r.h,7);dc.fill()});dog(dc,runner.x-dashCam,runner.y-8,choose[1],.62,1,Math.abs(runner.vx)>0?'run':'idle',Math.floor(time*10)%4);dc.fillStyle='#22c55e';dc.fillRect(dashWorld-70-dashCam,245,8,115)}
+function dashBind(btn,k){btn.onpointerdown=e=>{e.preventDefault();dashKeys[k]=1};btn.onpointerup=btn.onpointercancel=e=>{e.preventDefault();if(k!=='j')dashKeys[k]=0}}
+dashBind($('dashLeft'),'l');dashBind($('dashRight'),'r');dashBind($('dashJump'),'j');
+function leaveDash(){document.body.classList.remove('bonus');show('');$('hud').style.display='flex';$('move').style.display='flex';$('act').style.display='flex';build(3);state='game';run=1;last=performance.now()}
+$('dashSkip').onclick=()=>{if(dashTimer)clearInterval(dashTimer);leaveDash()};
+
 /* SHADOW */
 const sh=$('sh'),sx=sh.getContext('2d');let sp={x:90,y:220,vx:0,vy:0},lights=[],evil=[],sg=0,st=null;function startShadow(){run=0;state='shadow';document.body.classList.add('bonus');$('hud').style.display=$('move').style.display=$('act').style.display='none';show('shadow');sp={x:90,y:220,vx:0,vy:0};sg=0;$('ss').textContent=0;lights=[];for(let i=0;i<30;i++)lights.push({x:60+Math.random()*780,y:50+Math.random()*340,a:1});evil=[{x:700,y:90,vx:-80,vy:60,r:22},{x:780,y:360,vx:-95,vy:-55,r:25},{x:480,y:220,vx:70,vy:-80,r:20}];if(st)clearInterval(st);st=setInterval(sstep,35)}function sstep(){sp.x=Math.max(16,Math.min(884,sp.x+sp.vx*.035));sp.y=Math.max(16,Math.min(424,sp.y+sp.vy*.035));evil.forEach(e=>{e.x+=e.vx*.035;e.y+=e.vy*.035;if(e.x<25||e.x>875)e.vx*=-1;if(e.y<25||e.y>415)e.vy*=-1;if(Math.hypot(sp.x-e.x,sp.y-e.y)<e.r+13){sp.x=90;sp.y=220}});lights.forEach(l=>{if(l.a&&Math.hypot(sp.x-l.x,sp.y-l.y)<20){l.a=0;sg++;score+=3;$('ss').textContent=sg}});sdraw();if(sg>=30){clearInterval(st);score+=150;leaveShadow()}}function sdraw(){let g=sx.createLinearGradient(0,0,0,440);g.addColorStop(0,'#0c1630');g.addColorStop(1,'#260b34');sx.fillStyle=g;sx.fillRect(0,0,900,440);lights.forEach(l=>{if(!l.a)return;sx.fillStyle='#fff7a8';sx.beginPath();sx.arc(l.x,l.y,7,0,7);sx.fill()});evil.forEach(e=>{sx.fillStyle='#020203';sx.beginPath();sx.arc(e.x,e.y,e.r,0,7);sx.fill();sx.fillStyle='#ef4444';sx.beginPath();sx.arc(e.x-7,e.y-4,4,0,7);sx.arc(e.x+7,e.y-4,4,0,7);sx.fill()});sx.fillStyle='#60a5fa';sx.beginPath();sx.arc(sp.x,sp.y,12,0,7);sx.fill()}function sdir(x,y){sp.vx=x*210;sp.vy=y*210}function leaveShadow(){document.body.classList.remove('bonus');show('');$('hud').style.display='flex';$('move').style.display='flex';$('act').style.display='flex';build(4);state='game';run=1;last=performance.now()}$('su').onclick=()=>sdir(0,-1);$('sd').onclick=()=>sdir(0,1);$('sl').onclick=()=>sdir(-1,0);$('sr').onclick=()=>sdir(1,0);$('sSkip').onclick=()=>{if(st)clearInterval(st);leaveShadow()};
 

diff --git a/sw.js b/sw.js
@@ -1,16 +1,5 @@
-const CACHE_NAME='chanel-armani-pwa-v1';
-const APP_SHELL=['./','./index.html','./manifest.webmanifest','./icon-192.png','./icon-512.png'];
-self.addEventListener('install',event=>{
-  event.waitUntil(caches.open(CACHE_NAME).then(cache=>cache.addAll(APP_SHELL)).then(()=>self.skipWaiting()));
-});
-self.addEventListener('activate',event=>{
-  event.waitUntil(caches.keys().then(keys=>Promise.all(keys.filter(key=>key!==CACHE_NAME).map(key=>caches.delete(key)))).then(()=>self.clients.claim()));
-});
-self.addEventListener('fetch',event=>{
-  if(event.request.method!=='GET') return;
-  event.respondWith(caches.match(event.request).then(cached=>cached||fetch(event.request).then(response=>{
-    const copy=response.clone();
-    caches.open(CACHE_NAME).then(cache=>cache.put(event.request,copy));
-    return response;
-  }).catch(()=>caches.match('./index.html'))));
-});
+const CACHE='chanel-armani-deluxe-v2';
+const ASSETS=['./','./index.html','./manifest.webmanifest','./icon-192.png','./icon-512.png'];
+self.addEventListener('install',e=>e.waitUntil(caches.open(CACHE).then(c=>c.addAll(ASSETS)).then(()=>self.skipWaiting())));
+self.addEventListener('activate',e=>e.waitUntil(caches.keys().then(k=>Promise.all(k.filter(x=>x!==CACHE).map(x=>caches.delete(x)))).then(()=>self.clients.claim())));
+self.addEventListener('fetch',e=>{if(e.request.method!=='GET')return;e.respondWith(caches.match(e.request).then(r=>r||fetch(e.request).then(n=>{let cp=n.clone();caches.open(CACHE).then(c=>c.put(e.request,cp));return n}).catch(()=>caches.match('./index.html'))))});

diff --git a/README.md b/README.md
@@ -1,16 +1,15 @@
-# Chanel & Armani – kompletter PWA-Neustart
+# Chanel & Armani – Deluxe PWA
 
-Neue, zusammengehörige Dateien:
-- `index.html`
-- `manifest.webmanifest`
-- `sw.js`
-- `icon-192.png`
-- `icon-512.png`
+Neu:
+- feinere Hintergründe mit Tag, Nacht, Sonne, Mond und Sternen
+- Blumen, Bäume und dekorative Tiere
+- vier Jump-and-Run-Level mit Gegnern
+- Bonus 1: Knochen-Labyrinth
+- Bonus 2: Tier-Dash, inspiriert von klassischen 2.5D-Plattform-Rennen
+- Bonus 3: Schattenjagd
+- verfeinerter Endgegner mit drei Angriffsphasen
+- Feuerwerk nach dem Endsieg
+- neue manifest.webmanifest und sw.js
+- PWA/Offline-Unterstützung über GitHub Pages
 
-## GitHub Pages
-Alle Dateien gemeinsam in das Repository hochladen. Danach GitHub Pages aktivieren.
-
-## Installation auf iPhone/iPad
-Die GitHub-Pages-Adresse in Safari öffnen → Teilen → Zum Home-Bildschirm.
-
-Der Service Worker funktioniert nur über HTTPS bzw. GitHub Pages, nicht beim direkten lokalen Öffnen der HTML-Datei.
+Alle Dateien gemeinsam hochladen.